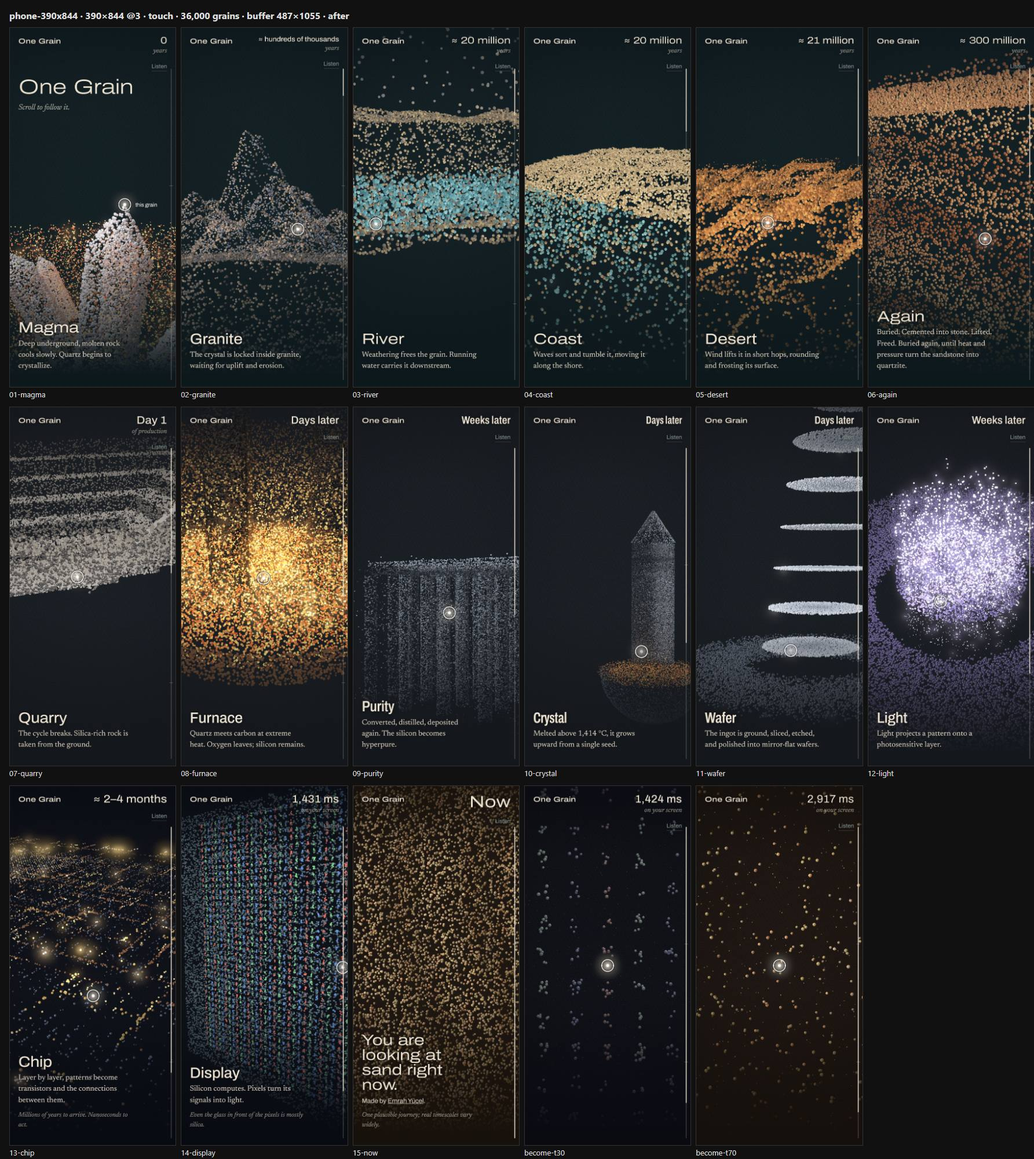
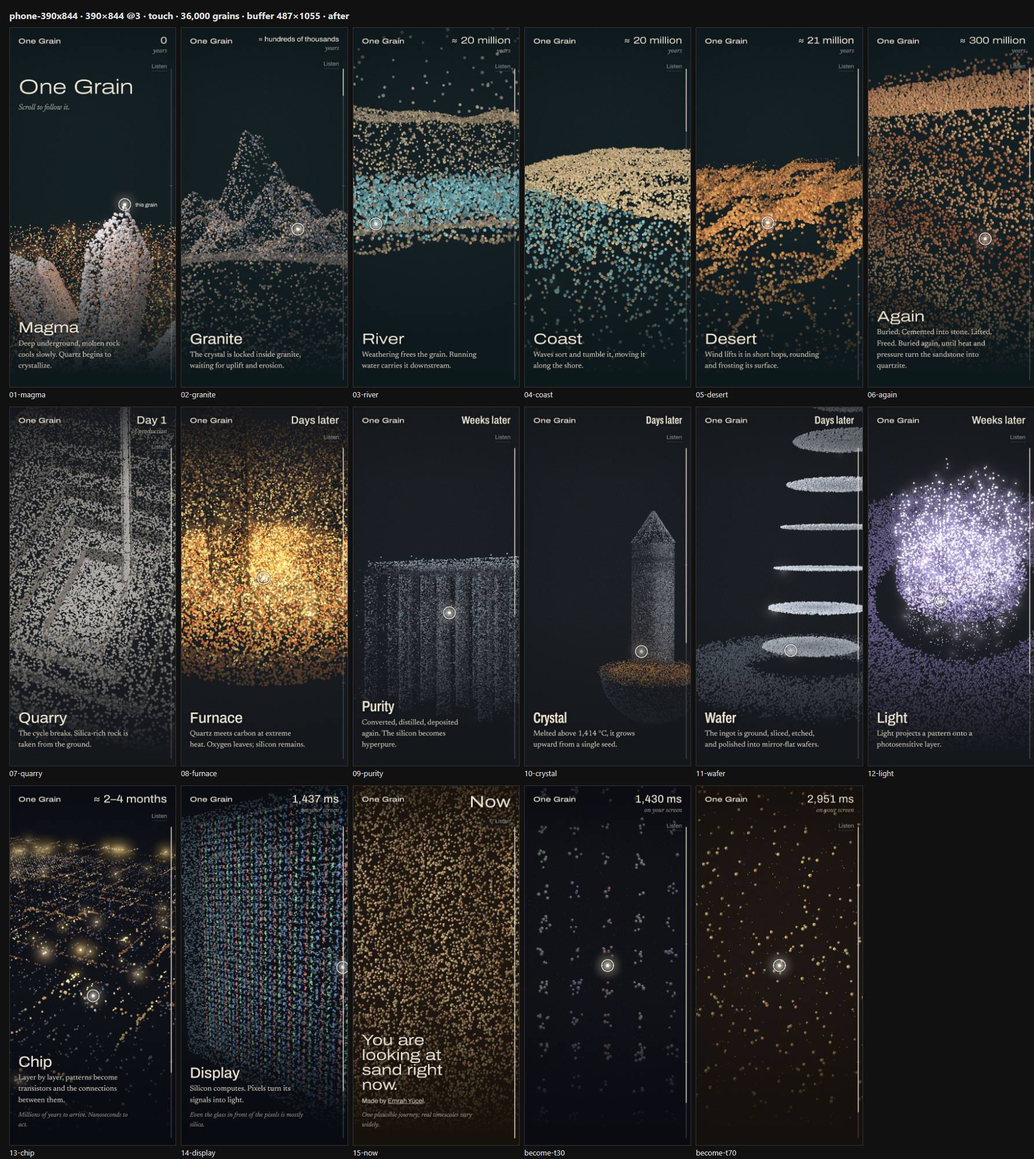
Quarry reframed: the pit fills the frame, the hero grain in view
v15's quarry looks at the pit from in front and low: the pit fills the top half and the lower
~45 % at 16:9 is empty ground. A front view cannot fill the frame and keep the hero visible
(the hero sits under the second bench by the near rim, so it ends at the bottom edge inside the
scrim), so the camera now looks from the pit's side, higher and closer: the pit fills the frame,
its centre about 10 % below the middle, the hero right of centre. The cut into quarry needs no
continuity; the break out starts from the new camera on the same curve (check:seams identical,
check:reverse 15/15). Intentional, in docs/parity-notes.md; before/after at 16:9 and 2560×1080
in docs/responsive/quarry/, and the after sheets regenerated (189/189 ring checks).

Changed region(s): [[0.0, 0.3408, 0.1849, 0.6197]]

diff --git a/src/story/worlds.ts b/src/story/worlds.ts
@@ -9,7 +9,7 @@ export const WORLDS: readonly WorldDef[] = [
   { slug: 'desert', act: 'nature', hold: 1.6, clock: { unit: 'years', value: 2.1e7 }, lo: '#97653a', hi: '#e8ba7b', grain: .17, cam: [-7, 3.2, 11], look: [3, -.5, -4], conf: .15, frame: 1, wideAnchor: .85 },
   { slug: 'again', act: 'nature', hold: .9, clock: { unit: 'years', value: 3e8 }, lo: '#8a4a2c', hi: '#ead0a6', grain: .09, cam: [7, 3.5, 11], look: [-2.5, .5, -1.5], conf: 0, frame: 1, wideAnchor: .5 },
 
-  { slug: 'quarry', act: 'industry', hold: 1.0, clock: { unit: 'prod' }, lo: '#6f6252', hi: '#e8dfd2', grain: .12, cam: [-4, 8, 16], look: [3, -5, -8], conf: .3, frame: 1, wideAnchor: .7 },
+  { slug: 'quarry', act: 'industry', hold: 1.0, clock: { unit: 'prod' }, lo: '#6f6252', hi: '#e8dfd2', grain: .12, cam: [-17, 18, -2], look: [0, -2, -7.6], conf: .3, frame: 1, wideAnchor: .7 },
   { slug: 'furnace', act: 'industry', hold: 1.0, clock: { unit: 'prod' }, lo: '#2f2b29', hi: '#8c8178', grain: .08, cam: [0, 6, 12], look: [0, -2, -3], conf: .5, frame: 1.25, wideAnchor: .6 },
   { slug: 'purity', act: 'industry', hold: .8, clock: { unit: 'prod' }, lo: '#46525e', hi: '#dbe3ea', grain: .06, cam: [4, 1.2, 9], look: [-3.5, 1.5, -5], conf: .75, frame: 1.6, wideAnchor: 0 },
   { slug: 'crystal', act: 'industry', hold: 1.3, clock: { unit: 'prod' }, lo: '#46525e', hi: '#eef3f6', grain: .05, cam: [7, 5.5, 14], look: [-4.5, 4.6, -2], conf: 1, frame: 1.55, wideAnchor: 0 },

diff --git a/docs/parity-notes.md b/docs/parity-notes.md
@@ -35,8 +35,18 @@ override, time override, and exposing the built texture (`scripts/lib/reference.
   over 20vh), for the clock on bright scenes. The reference has none, so `npm run parity` judges
   positions below the top 20 % of the frame and reports the full-frame diff alongside (42/42 within
   2 % below the band; 0.57 % at most, crystal hold).
-- **Framing past 2:1.** Wider screens keep the 2:1 horizontal field of view and crop top and bottom.
-  The reference shows more of the sides (and the worlds' edges). It does not apply at the parity size.
+- **Framing past 2:1.** Wider screens keep the 2:1 horizontal field of view and lose height; each
+  world's `wideAnchor` picks which edge of the 2:1 frame stays. The reference shows more of the sides
+  (and the worlds' edges). It does not apply at the parity size.
+- **Quarry is reframed (intentional, all widths).** v15 looks at the pit from in front and low, so the
+  pit fills only the top half and the lower ~45 % at 16:9 is empty ground. The port looks from the pit's
+  −x side, higher and closer (cam [−17, 18, −2], look [0, −2, −7.6] from the hero; v15
+  [−4, 8, 16] / [3, −5, −8]): the pit fills the frame, its centre sits about 10 % below the middle, and
+  the hero grain is right of centre above the scrim. A front view cannot do all three: the hero sits
+  under the second bench, next to the near rim, so filling the frame from the front puts it at the
+  bottom edge inside the scrim. The cut into quarry needs no continuity; the break out of it starts from
+  the new camera on the same curve (check:seams and check:reverse pass). The quarry hold and the break
+  (quarry → furnace) differ from v15 on purpose. Before/after: docs/responsive/quarry/.
 - **Pixel budget.** The drawing buffer is capped by total pixels per tier (low 1.5 MP, mid 2.2 MP, high
   4.5 MP). It does not apply at the parity size (1440×900 = 1.3 MP).
 - **Narrow and short screens.** Under 480 px wide the clock is smaller; below 560 px high the rail is a

diff --git a/docs/responsive/README.md b/docs/responsive/README.md
@@ -77,14 +77,14 @@ The "after" sheets above include these.
    chip .8, display .5, now .5. Sheets: [2560×1080](after/desktop-2560x1080-21x9.jpg),
    [3440×1440](after/desktop-3440x1440-21x9.jpg). The first round's single rule (every world 0)
    for comparison: [clamp only](21x9/before-clamp-only.jpg) · [global rule](21x9/after-look-lowered.jpg).
-   - Still floating over empty ground: **quarry**. The pit fills the top half and the lower third or
-     more is dark ground (about 30 % already at 16:9); anchor 1 would take a little more from the
-     bottom, but most of the gap is the shot itself.
-   - Cut at the top, as at 16:9 (the shot, not the crop): the furnace's electrodes and the light
-     column come in from above.
+   - Quarry floated over empty ground at every width (about 45 % at 16:9). It is reframed since (all
+     widths): seen from the pit's side, higher and closer, the pit fills the frame with its centre a
+     little below the middle and the hero grain right of centre. Before/after, with the cut in and the
+     break out: [16:9](quarry/quarry-1920x1080.jpg), [2560×1080](quarry/quarry-2560x1080.jpg).
+   - Cut at the top, as at 16:9, by design: the furnace's electrodes and the light column come in
+     from above. Display's empty left third is the space for the chapter text.
    - Fixed by the anchors: river and desert sit low again with little empty ground below; crystal,
      wafer (all five wafers, the top one is cut at 16:9) and purity keep their bases.
-   - Not vertical: display leaves its left third empty at every width (the wall is on the right).
 4. **Pixel budget.** On high the budget never takes the pixel ratio below 1 (a 4K screen at DPR 1
    renders all 8.3 MP; Retina screens still come down to the budget, not below DPR 1). Low and mid
    are unchanged (2560×1080 on mid: 2283×963).
